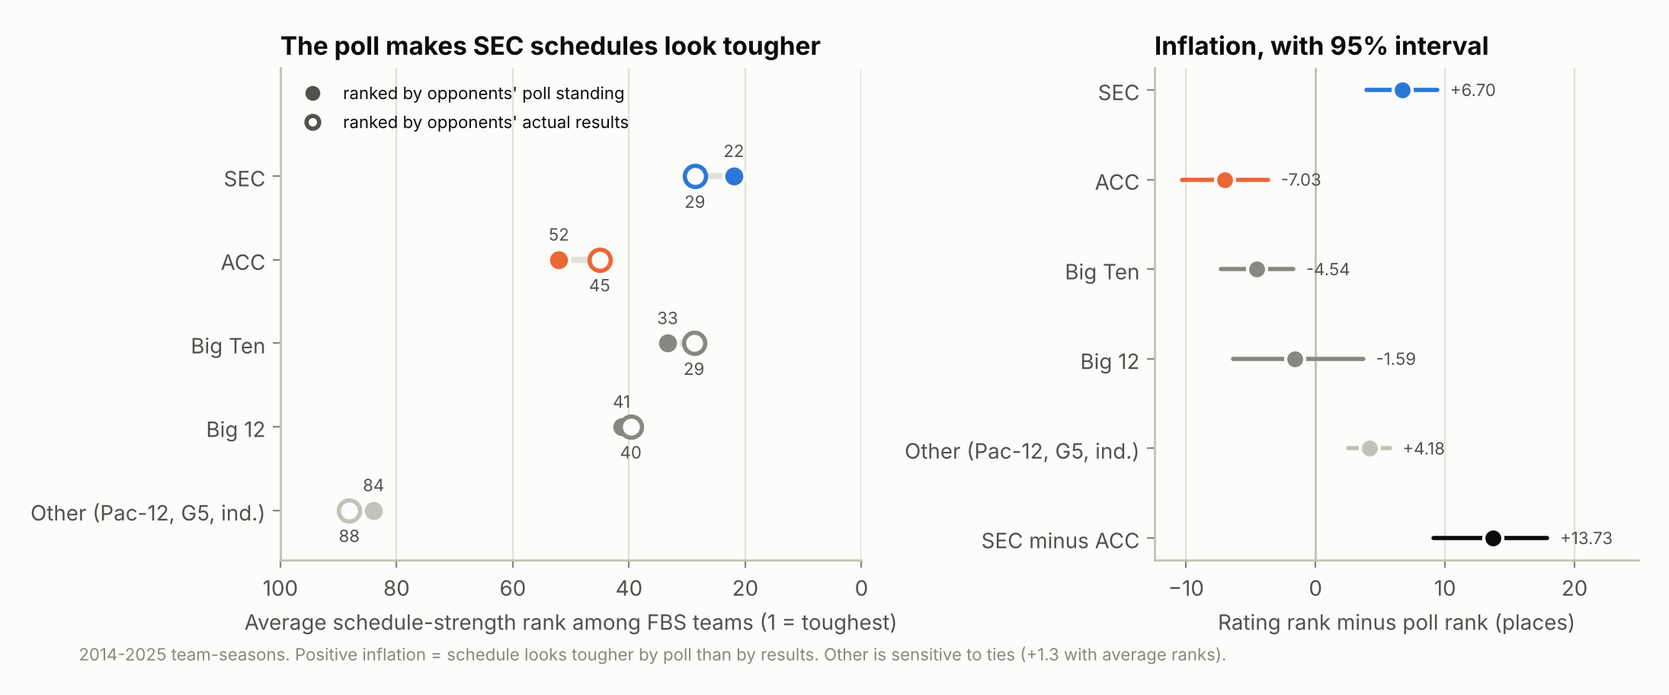
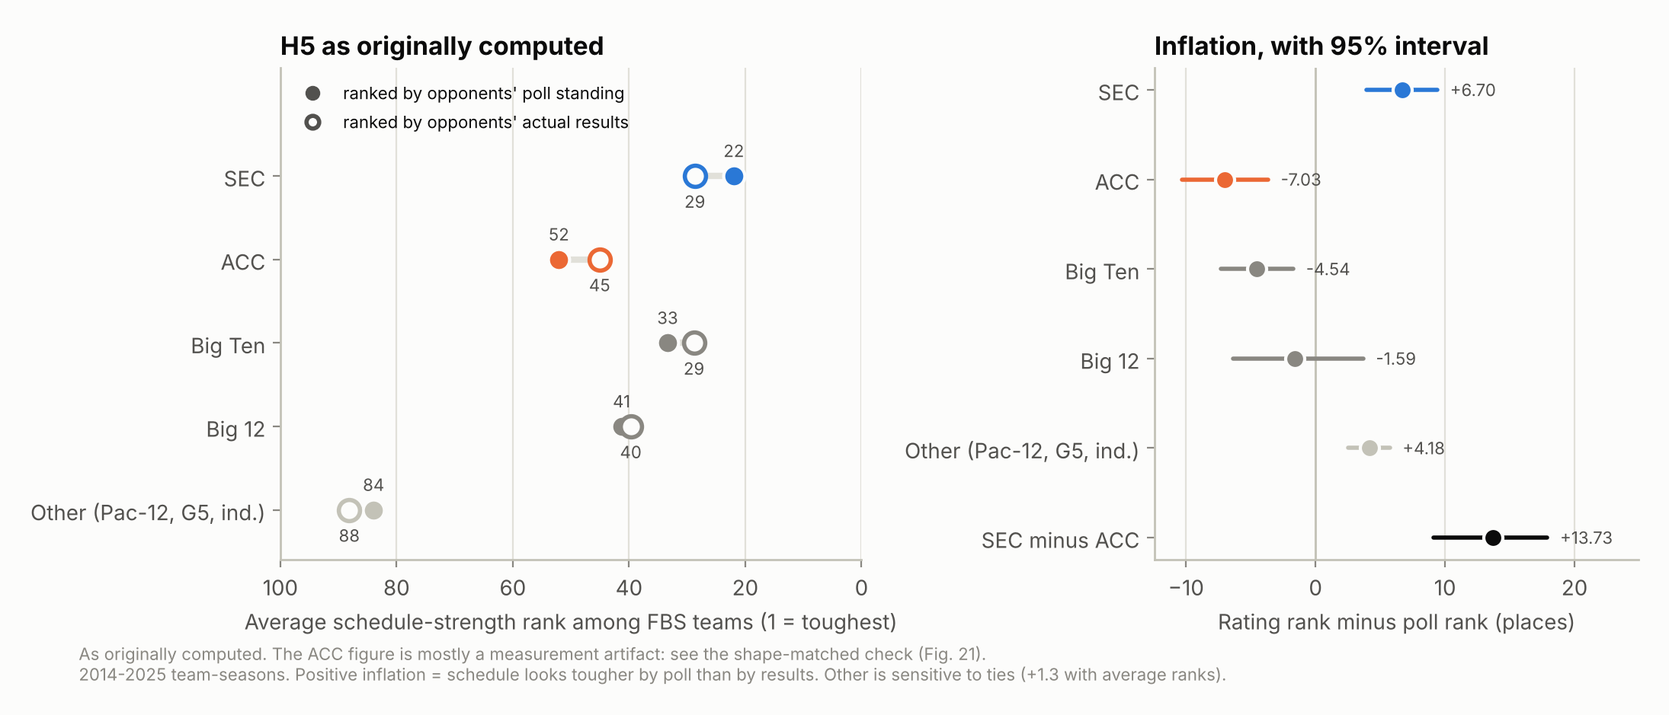
Rewrite headline findings after the H5 sensitivity check
- Byline and README now say: pre-registered plan with logged deviations;
  the main findings come from tests added during the analysis.
- 'About this study' disclosure added to README and REPORT.
- Abstract, 5.4, 7.1-7.3, 8 and 9 rewritten: the SEC game-day schedule
  effect survives the shape-matched check (+5.7, CI +2.9 to +8.9); the
  ACC effect and the SEC-minus-ACC schedule gap do not. Original H5
  numbers kept and labelled 'as originally computed'.
- Registered results stated plainly (H1, H2 vs Elo) with why Elo was
  replaced and when; every test labelled registered or added.
- H2 SEC-minus-ACC (+0.76, CI -0.43 to +1.93) stated wherever the
  one-place SEC overrating appears.
- Swap figure captions say 'Not evidence'; figure 15 relabelled.
- Data attribution and the new fetch-then-rebuild instructions.

Claude-Session: https://claude.ai/code/session_01GTeiMk8jWVQkHmZYpQRphq

diff --git a/src/figures.py b/src/figures.py
@@ -533,10 +533,11 @@ def fig_schedule_inflation():
     a1.invert_xaxis()
     a1.grid(axis="y", visible=False)
     a1.set_xlabel("Average schedule-strength rank among FBS teams (1 = toughest)")
-    a1.set_title("The poll makes SEC schedules look tougher")
+    a1.set_title("H5 as originally computed")
     rows = conf_rows(b) + [("SEC minus ACC", b["sec_minus_acc"], *b["sec_minus_acc_ci"], INK)]
     forest(a2, rows, "Inflation, with 95% interval", "Rating rank minus poll rank (places)")
     save(fig, "fig15_schedule_inflation.png",
+         "As originally computed. The ACC figure is mostly a measurement artifact: see the shape-matched check (Fig. 21).\n"
          "2014-2025 team-seasons. Positive inflation = schedule looks tougher by poll than by results. "
          "Other is sensitive to ties (+1.3 with average ranks).")
 

diff --git a/REPORT.md b/REPORT.md
@@ -1,7 +1,9 @@
 # Preseason Rank, Schedule Strength and the AP Poll: Does the SEC Benefit from Voter Bias?
 
 **Kyle Bowlsbey** · October 23, 2026
-Pre-registered study. Code, frozen data and every result: this repository. Analysis code written with Claude Code.
+Pre-registered plan with logged deviations. The main findings come from follow-up tests added during the analysis (§6). Code, data checksums and every result: this repository.
+
+**About this study.** Kyle is a Miami (ACC) fan, and the claim tested here is one he believed going in. The code and this report were written with Claude Code under his direction. Several analysis choices changed during the work after earlier results had been seen; each is dated in `DEVIATIONS.md` and listed in §6 with what had been seen at the time. An outside review of the first version found that the schedule result (H5) mixed a real effect with a measurement artifact; §5.4 reports the corrected analysis next to the original. Data provided by [CollegeFootballData.com](https://collegefootballdata.com) and [sportsdataverse/cfbfastR-data](https://github.com/sportsdataverse/cfbfastR-data).
 
 ---
 
@@ -9,16 +11,18 @@ Pre-registered study. Code, frozen data and every result: this repository. Analy
 
 We test the claim that the Southeastern Conference (SEC) appears stronger than it is because its teams start the season ranked, and that wins over ranked opponents then inflate the conference's standing. Using every regular-season AP Top 25 poll from 2014 to 2026 (2020 excluded) and every FBS game result, we (i) trained models that predict week-to-week AP poll movement from results alone, without team names or conferences; (ii) built a strength rating that uses only the current season's games; and (iii) tested conference-level differences against that rating, with 95% bootstrap intervals over team-seasons.
 
-The model passed its pre-registered out-of-sample test. For the 2024 and 2025 seasons, a full replay from the preseason poll reached a rank correlation of 0.80 and 0.92 with the real final regular-season poll; the bar was 0.70. Four findings follow.
+The model passed its pre-registered out-of-sample test. For the 2024 and 2025 seasons, a full replay from the preseason poll reached a rank correlation of 0.80 and 0.92 with the real final regular-season poll; the bar was 0.70.
 
-1. **Preseason standing persists for every conference.** About half of it (coefficient 0.48, 95% CI 0.42–0.54) is still visible after week five, holding record, scoring margin and strength fixed. The SEC does not carry over more than the ACC: difference +0.04, 95% CI −0.16 to +0.24.
-2. **For the same result against the same quality of opponent, voters do not reward SEC wins more or punish SEC losses less than ACC ones.**
-3. **The poll distorts schedule strength, and that is the clearest effect we found.** Ranked by opponents' poll standing, SEC schedules look 6.7 places tougher among about 130 FBS teams than they look ranked by opponents' actual results, and ACC schedules look 7.0 places easier. The SEC-minus-ACC gap is 13.7 places (95% CI 9.1–17.9).
-4. **SEC teams sit about one poll position above what their current-season results support** (+1.1, 95% CI +0.3 to +1.9). The ACC's +0.4 is not distinguishable from zero, and the Big 12 is similar to the SEC at +1.2.
+**The registered tests gave mixed signals.** H1 (linear model) found SEC teams gain slightly more than ACC teams for the same result, but that model fits worse than predicting no change. H2 against Elo found the poll rates ACC teams above Elo and SEC teams in line with it. After seeing those Elo results we replaced Elo with a season-only rating (deviation 10), because preseason Elo is 0.67 × last season's final Elo and so carries the very head start being tested. The findings below come mostly from follow-up tests added during the analysis.
+
+1. **Preseason standing persists for every conference** (H3, registered as defined in deviation 9). About half of it (coefficient 0.48, 95% CI 0.42–0.54) is still visible after week five, holding record, scoring margin and strength fixed. The SEC does not carry over more than the ACC: difference +0.04, 95% CI −0.16 to +0.24.
+2. **For the same result against the same quality of opponent, voters do not reward SEC wins more or punish SEC losses less than ACC ones** (H4, added).
+3. **SEC opponents are ranked higher on game day than their season results end up justifying** (H5 sensitivity, added). On a matched top-25 scale, SEC schedules look 5.7 places tougher among about 130 FBS teams by opponents' game-day poll rank than by opponents' final results (95% CI +2.9 to +8.9). The ACC shows no such effect (+2.1, CI −1.1 to +5.5), and the SEC-minus-ACC gap (+3.5, CI −0.8 to +8.0) is not statistically clear. As originally computed, H5 reported an ACC effect of −7.0 and a gap of 13.7 places; most of that came from scoring good-but-unranked opponents as zero on one side only.
+4. **SEC teams sit about one poll position above what their current-season results support** (+1.1, 95% CI +0.3 to +1.9; H2 against the season-only rating, added). The SEC-minus-ACC difference (+0.76, CI −0.43 to +1.93) is not distinguishable from zero, and the Big 12 is similar to the SEC at +1.2.
 
 A direct counterfactual, swapping SEC and ACC preseason positions in 2026, could not be answered reliably. Even our best model holds on to preseason rank more firmly than real voters do: it failed a plausibility check fixed in advance, which the real 2026 poll passes.
 
-In short, the SEC's poll advantage runs mainly through the reputation of its schedule, not through voters scoring its games differently. The ACC's own rankings are not depressed, but its schedules are systematically undersold.
+In short, the evidence supports one part of the claim: SEC opponents carry game-day rankings their results do not fully justify, and preseason standing persists for everyone. It does not support the stronger versions. Voters do not grade SEC games more generously, ACC schedules are not shown to be undersold, and the SEC-versus-ACC differences in schedule credit and in poll standing relative to results are not statistically clear.
 
 ---
 
@@ -77,7 +81,7 @@ Section 6 lists every deviation and, importantly, which results had been seen wh
 | Game results, venue, conference, Elo | [sportsdataverse/cfbfastR-data](https://github.com/sportsdataverse/cfbfastR-data), `schedules/parquet`, commit `09f2595e` | 2014–2026 | Elo used only as a comparison, never as a model input |
 | AP Top 25, weekly, with points and first-place votes | [CollegeFootballData.com](https://collegefootballdata.com) API, `/rankings` | 2014–2026 | Regular season and postseason |
 
-All 39 raw files were pulled once (2026-10-23 17:18 UTC), saved unmodified, and checksummed in `data/MANIFEST.json`. No file was re-pulled.
+All 39 raw files were pulled once (2026-10-23 17:18 UTC), saved unmodified, and checksummed in `data/MANIFEST.json`. They are not committed: CollegeFootballData.com's terms do not allow publishing stored raw API responses. `src/fetch_data.py` rebuilds them byte for byte from the sources and checks every checksum.
 
 ### 3.2 Scope and construction
 
@@ -143,14 +147,16 @@ The weights, the cap and the shrinkage were fixed before any rating was computed
 
 All on real 2014–2025 data. The 95% intervals come from 1,000 bootstrap resamples of whole team-seasons (seed 0).
 
-| Test | Question | Measure |
-| --- | --- | --- |
-| H1 Conference effect (registered) | Same result, more points for the SEC? | SEC − ACC coefficient in the linear model with conference flags |
-| H2 Poll vs strength (registered) | Is the SEC ranked above its strength? | Strength rank − AP rank, by conference (Elo, then the season-only rating, polls 6+) |
-| H3 Preseason carry-over | Does preseason standing persist at equal performance? | Coefficient on preseason points, controlling record, margin, strength and week; SEC/ACC interactions |
-| H4 Rewards and punishments | Are SEC wins rewarded more, losses punished less? | Out-of-season residuals of the name-blind rated model, ranked teams, after wins and after losses |
-| H5 Schedule inflation | Does the poll overstate SEC schedules? | Schedule rank by opponents' poll points vs by opponents' season-only rating |
-| H6 Elo head start | Does Elo carry an SEC advantage? | Season-only rank − Elo rank, by conference |
+| Test | Status | Question | Measure |
+| --- | --- | --- | --- |
+| H1 Conference effect | Registered | Same result, more points for the SEC? | SEC − ACC coefficient in the linear model with conference flags |
+| H2 Poll vs Elo | Registered | Is the SEC ranked above its strength? | Elo rank − AP rank, by conference |
+| H2 Poll vs season-only rating | Added (deviation 10) | Same question, current-season yardstick | Rating rank − AP rank, by conference, polls 6+ |
+| H3 Preseason carry-over | Registered (as defined in deviation 9) | Does preseason standing persist at equal performance? | Coefficient on preseason points, controlling record, margin, strength and week; SEC/ACC interactions |
+| H4 Rewards and punishments | Added (deviation 11) | Are SEC wins rewarded more, losses punished less? | Out-of-season residuals of the name-blind rated model, ranked teams, after wins and after losses |
+| H5 Schedule inflation | Added (deviation 11) | Does the poll overstate SEC schedules? | Schedule rank by opponents' poll points vs by opponents' season-only rating |
+| H5 sensitivity | Added (deviation 12, after outside review) | Is H5 a real effect or a measurement artifact? | H5 with shape and timing of the two measures matched (§5.4) |
+| H6 Elo head start | Added (deviation 11) | Does Elo carry an SEC advantage? | Season-only rank − Elo rank, by conference |
 
 ### 4.6 Counterfactual
 
@@ -241,15 +247,15 @@ The rating matches Elo and the AP poll while using no prior-season information. 
 
 ### 5.4 Hypothesis tests
 
-**H1 — Conference effect, same result.** In the linear model, SEC teams gain 0.12 points per voter more than ACC teams for an identical result (95% CI 0.0001 to 0.24). The registered specification gives +7.3 AP points (CI 0.6–14.8). The SEC, Big Ten and Big 12 coefficients are nearly equal; the ACC's is lower. This rests on the linear model, which fits poorly (§5.1), and H4, using the far better model, does not reproduce it.
+**H1 — Conference effect, same result (registered).** In the linear model, SEC teams gain 0.12 points per voter more than ACC teams for an identical result (95% CI 0.0001 to 0.24). The registered specification gives +7.3 AP points (CI 0.6–14.8). The SEC, Big Ten and Big 12 coefficients are nearly equal; the ACC's is lower. This rests on the linear model, which fits poorly (§5.1), and H4, using the far better model, does not reproduce it.
 
 ![Figure 10. H1: conference coefficients in the linear model, relative to other conferences.](results/figures/fig13_conference_effect.png)
 
 *Figure 10. H1: conference coefficients in the linear model, relative to other conferences.*
 
-**H2 — Poll rank versus strength rank** (positive = the poll ranks a team above its strength):
+**H2 — Poll rank versus strength rank** (positive = the poll ranks a team above its strength). The Elo column is registered; the season-only column was added after the Elo results were seen (deviation 10):
 
-| Conference | vs Elo, all polls | vs season-only rating, polls 6+ | AP-ranked but outside rating top 25 | In rating top 25 but AP-unranked |
+| Conference | vs Elo, all polls (registered) | vs season-only rating, polls 6+ (added) | AP-ranked but outside rating top 25 | In rating top 25 but AP-unranked |
 | --- | --- | --- | --- | --- |
 | **SEC** | +0.20 (−0.79, +1.27) | **+1.11 (+0.34, +1.88)** | 77 | 38 |
 | **ACC** | **+1.38 (+0.06, +2.56)** | +0.35 (−0.53, +1.16) | 60 | 50 |
@@ -258,7 +264,7 @@ The rating matches Elo and the AP poll while using no prior-season information. 
 | Other | +0.02 (−1.00, +1.11) | **−0.92 (−1.78, −0.12)** | 138 | 194 |
 | **SEC − ACC** | −1.18 (−2.72, +0.57) | +0.76 (−0.43, +1.93) | | |
 
-Counts are team-weeks. The two yardsticks disagree, and the disagreement is informative (see H6). Against current-season results, the SEC is ranked about one position too high, clearly different from zero. The ACC is not distinguishable from zero. The SEC-minus-ACC difference is positive but its interval includes zero.
+Counts are team-weeks. The two yardsticks disagree, and the disagreement is informative (see H6). Against current-season results, the SEC is ranked about one position too high, clearly different from zero. The ACC is not distinguishable from zero. The SEC-minus-ACC difference is +0.76 (CI −0.43 to +1.93), not distinguishable from zero, and the Big 12 (+1.15) is similar to the SEC.
 
 ![Figure 11. H2: poll rank minus strength rank by conference, against Elo (left) and against the season-only rating (right), with 95% intervals.](results/figures/fig10_poll_vs_strength.png)
 
@@ -268,13 +274,13 @@ Counts are team-weeks. The two yardsticks disagree, and the disagreement is info
 
 *Figure 12. H2: team-weeks ranked by the AP but outside the season-only top 25 (right), and the reverse (left).*
 
-**H3 — Preseason carry-over.** Holding record, margin, strength and week fixed, a team's points per voter in polls 6 and later rise by 0.48 for each point per voter it held in the preseason poll (CI 0.42–0.54; with Elo as the control, 0.52, CI 0.45–0.58). Extra carry-over for the SEC relative to the ACC is +0.04 (CI −0.16 to +0.24). Preseason standing is sticky, equally so for both conferences.
+**H3 — Preseason carry-over (registered, as defined in deviation 9).** Holding record, margin, strength and week fixed, a team's points per voter in polls 6 and later rise by 0.48 for each point per voter it held in the preseason poll (CI 0.42–0.54; with Elo as the control, 0.52, CI 0.45–0.58). Extra carry-over for the SEC relative to the ACC is +0.04 (CI −0.16 to +0.24). Preseason standing is sticky, equally so for both conferences.
 
 ![Figure 13. H3: preseason carry-over at equal record, margin, strength and week (left), and the SEC-minus-ACC difference (right).](results/figures/fig12_preseason_carryover.png)
 
 *Figure 13. H3: preseason carry-over at equal record, margin, strength and week (left), and the SEC-minus-ACC difference (right).*
 
-**H4 — Rewards and punishments.** Residuals of the name-blind rated model for ranked teams, in points per voter (positive = rose more, or fell less, than results explain):
+**H4 — Rewards and punishments (added).** Residuals of the name-blind rated model for ranked teams, in points per voter (positive = rose more, or fell less, than results explain):
 
 | Conference | After a win | After a loss | All weeks |
 | --- | --- | --- | --- |
@@ -291,7 +297,7 @@ Once opponent quality is measured by results rather than by poll standing, voter
 
 *Figure 14. H4: how far ranked teams beat the name-blind model after wins (left) and losses (right), by conference.*
 
-**H5 — Schedule inflation.** Each team-season's schedule is ranked among FBS teams (1 = toughest) by opponents' poll points and by opponents' season-only rating:
+**H5 — Schedule inflation (added), as originally computed.** Each team-season's schedule is ranked among FBS teams (1 = toughest) by opponents' poll points before each game and by opponents' final season-only rating:
 
 | Conference | Mean rank by poll | Mean rank by results | Inflation (rating rank − poll rank) |
 | --- | --- | --- | --- |
@@ -304,13 +310,33 @@ Once opponent quality is measured by results rather than by poll standing, voter
 
 \*The Other figure is sensitive to ties at zero (teams that faced no ranked opponent); with average ranks it is +1.3. The SEC (+6.7) and ACC (−7.2) figures are not sensitive to this.
 
-This is the largest and most precisely estimated effect in the study. The poll makes SEC schedules look about seven places tougher, and ACC schedules about seven places easier, than opponents' actual results justify. In 2026 to date the direction is the same but the estimate is imprecise: SEC +2.7 (−3.2, +9.3), ACC −4.9 (−14.9, +4.0), SEC − ACC +7.6 (−3.6, +19.7).
+The first version of this report called this the clearest effect in the study. An outside review showed that it compares two measures that differ in two ways at once. **Shape:** the poll side scores every unranked opponent as zero, while the rating side gives every opponent credit. **Timing:** the poll side uses each opponent's standing on game day, the rating side its final rating. The timing gap is the effect under test; the shape gap is a measurement artifact. In 2026 to date the original measure gives SEC +2.7 (−3.2, +9.3), ACC −4.9 (−14.9, +4.0), SEC − ACC +7.6 (−3.6, +19.7).
 
 ![Figure 15. H5: average schedule rank by opponents' poll standing (filled) and by their actual results (open), left; inflation with 95% intervals, right.](results/figures/fig15_schedule_inflation.png)
 
-*Figure 15. H5: average schedule rank by opponents' poll standing (filled) and by their actual results (open), left; inflation with 95% intervals, right.*
+*Figure 15. H5 as originally computed: average schedule rank by opponents' poll standing (filled) and by their actual results (open), left; inflation with 95% intervals, right. The ACC figure is mostly a measurement artifact (Figure 21).*
 
-**H6 — Elo's head start.** Relative to the season-only rating (polls 6+), Elo ranks SEC teams 0.91 places higher (−0.48, +2.18) and ACC teams 1.07 places lower (−2.55, +0.48). The SEC − ACC difference is **+1.98 (+0.03, +3.86)**. Elo carries roughly two positions more prior-season advantage for the SEC than for the ACC. That explains why the Elo-based version of H2 showed no SEC overrating: Elo shares part of the head start the test was looking for.
+**H5 sensitivity (added after an outside review; deviation 12).** The same comparison four ways (average ranks for ties; rank places; 95% intervals):
+
+| Variant | Poll side | Rating side | SEC | ACC | SEC − ACC |
+| --- | --- | --- | --- | --- | --- |
+| A. As originally computed | Points per voter, game day | Final rating | +6.7 (+3.9, +9.4) | −7.2 (−10.6, −3.9) | +14.0 (+9.3, +18.2) |
+| **B. Shape matched** | **Top-25 rank points, game day** | **Final top-25 rank points** | **+5.7 (+2.9, +8.9)** | **+2.1 (−1.1, +5.5)** | **+3.5 (−0.8, +8.0)** |
+| C. Timing matched | Points per voter, final poll | Final rating | +1.9 (−1.5, +5.1) | −9.4 (−13.0, −6.0) | +11.4 (+6.6, +16.3) |
+| D. Shape and timing matched | Top-25 rank points, final poll | Final top-25 rank points | +1.1 (−0.4, +2.4) | +0.5 (−1.1, +2.3) | +0.6 (−1.7, +2.7) |
+
+Variant B is the fairest test of the claim: the same scale on both sides, game-day poll against final results. Under B:
+- **The SEC effect survives.** SEC opponents are ranked about 5.7 places higher on game day than their final results justify, with an interval clear of zero. That is the preseason-rank mechanism the study set out to test.
+- **The ACC effect disappears** (+2.1, interval includes zero). The original −7 came from ACC opponents that are often decent teams just outside the top 25: zero on the poll side, credit on the rating side.
+- **The SEC-minus-ACC gap is not statistically clear** (+3.5, interval −0.8 to +8.0).
+
+Variant D removes the game-day effect by design, so it is expected to show nothing; it is reported for completeness. The final regular-season poll is the poll after each season's last schedule week. The outside review used the poll one week earlier; with that choice C and D come out at SEC +1.2 and +0.2, ACC −9.7 and +0.1, and A and B are unchanged (`results/h5_sensitivity.json` holds both).
+
+![Figure 21. H5 sensitivity: schedule inflation for the SEC, the ACC and SEC minus ACC under four ways of matching the two measures.](results/figures/fig21_h5_sensitivity.png)
+
+*Figure 21. H5 sensitivity: schedule inflation for the SEC, the ACC and SEC minus ACC under four ways of matching the two measures. B is the fairest test.*
+
+**H6 — Elo's head start (added).** Relative to the season-only rating (polls 6+), Elo ranks SEC teams 0.91 places higher (−0.48, +2.18) and ACC teams 1.07 places lower (−2.55, +0.48). The SEC − ACC difference is **+1.98 (+0.03, +3.86)**. Elo carries roughly two positions more prior-season advantage for the SEC than for the ACC. That explains why the Elo-based version of H2 showed no SEC overrating: Elo shares part of the head start the test was looking for.
 
 ![Figure 16. H6: places Elo ranks teams above the season-only rating, by conference.](results/figures/fig16_elo_head_start.png)
 
@@ -357,11 +383,11 @@ These swap results reflect the model's attachment to starting position more than
 
 ![Figure 18. 2026 top-25 slots by conference at poll 8: the real poll and the rated model's runs.](results/figures/fig18_counterfactual_slots.png)
 
-*Figure 18. 2026 top-25 slots by conference at poll 8: the real poll and the rated model's runs.*
+*Figure 18. 2026 top-25 slots by conference at poll 8: the real poll and the rated model's runs. Not evidence: every run, including the no-swap run, fails the plausibility check.*
 
 ![Figure 19. Nine-slot swap, rated model: each paired team's simulated rank without and with the swap.](results/figures/fig19_counterfactual_teams.png)
 
-*Figure 19. Nine-slot swap, rated model: each paired team's simulated rank without and with the swap.*
+*Figure 19. Nine-slot swap, rated model: each paired team's simulated rank without and with the swap. Not evidence: every run, including the no-swap run, fails the plausibility check.*
 
 ![Figure 20. 2026 to date: AP rank in poll 8 against the season-only rating after week 7.](results/figures/fig20_2026_poll_vs_rating.png)
 
@@ -390,8 +416,10 @@ Every entry is dated in `DEVIATIONS.md` and was committed before use. The last c
 | 9 | Hypothesis test definitions, including H3 | Methodology left details open | Base rates |
 | 10 | Season-only rating replaces Elo as the primary yardstick; Elo kept for comparison | Elo carries 67% of the prior season | Elo-based hypothesis results |
 | 11 | Rated model; H4–H6; swap re-run with a pre-set plausibility check | Opponent strength measured by poll standing alone carries the effect under test | Season-rating results |
+| 12 | H5 sensitivity: shape and timing matched | Outside review found H5 mixed a real effect with a measurement artifact | All results, including the published report |
+| 13 | Raw data no longer committed; fetched and checksum-verified | CollegeFootballData.com terms do not allow publishing stored raw API responses | All results (no number changes) |
 
-Deviations 5, 6, 8, 10 and 11 were made after some results were known. None changed how the holdout was scored. Results under the original specifications are reported alongside wherever they exist, and the original Elo-based results remain in `results/hypothesis.json`.
+Deviations 5, 6, 8, 10, 11 and 12 were made after some results were known. None changed how the holdout was scored. Results under the original specifications are reported alongside wherever they exist, and the original Elo-based results remain in `results/hypothesis.json`.
 
 ---
 
@@ -405,7 +433,7 @@ Deviations 5, 6, 8, 10 and 11 were made after some results were known. None chan
 | SEC poll standing above independent strength | Above the season-only rating (+1.1, CI excludes zero); not above Elo, which shares the head start (H6) | Supported, with caveats |
 | SEC poll standing matches strength (refutation) | Matches Elo; does not match current-season results | Not met |
 
-By the letter of the pre-registration, the claim is neither confirmed (the swap evidence is unusable) nor refuted (the SEC is ranked above its current-season strength).
+By the letter of the pre-registration, the claim is neither confirmed (the swap evidence is unusable) nor refuted (the SEC is ranked above its current-season strength). The registered tests on their own point slightly against it. H1 favors the SEC only in a model that fits worse than predicting no change, and H2 against Elo shows the poll rating ACC teams above Elo and SEC teams in line with it. The season-only yardstick that shows SEC overrating replaced Elo after those results were seen (deviation 10), because preseason Elo is 0.67 × last season's final Elo and so carries the head start being tested.
 
 ### 7.2 What the evidence shows
 
@@ -413,13 +441,13 @@ The study distinguishes three mechanisms by which the SEC could benefit:
 
 1. **Voters score SEC games more generously.** Not supported. For the same result against the same quality of opponent, SEC and ACC teams move alike (H4). The H1 result pointing the other way comes from a model that fits worse than predicting no change.
 2. **Preseason standing persists, and the SEC starts with more of it.** Supported, but the effect is general. About half of preseason standing persists into mid-season at equal performance, for every conference alike (H3). The SEC benefits because it begins with more ranked teams, not because its rankings are stickier.
-3. **The poll inflates the perceived strength of SEC schedules.** Strongly supported. SEC opponents are ranked well above what their results justify, so SEC schedules look about seven places tougher than they are, while ACC schedules look about seven places easier (H5). This is the mechanism in the original claim, and it is the clearest and most precisely measured effect in the study.
+3. **The poll inflates the perceived strength of SEC schedules.** Supported for the SEC, not as an SEC-versus-ACC difference. On a matched scale, SEC opponents are ranked about 5.7 places higher on game day than their final results justify (H5 sensitivity, variant B). That is the mechanism in the original claim. The ACC shows no comparable effect, but the SEC-minus-ACC gap (+3.5 places) is not statistically clear. The original H5 figures (+6.7 SEC, −7.0 ACC, gap 13.7) overstated the contrast through a measurement artifact.
 
-The net result is that SEC teams sit about one position above what their current-season results support (H2). The Big 12 shows a similar overrating, and Group of 5 teams are underrated by about the same amount, so this is not unique to the SEC.
+The net result is that SEC teams sit about one position above what their current-season results support (H2). The SEC-minus-ACC difference (+0.76) is not distinguishable from zero. The Big 12 shows a similar overrating, and Group of 5 teams are underrated by about the same amount, so this is not unique to the SEC.
 
 ### 7.3 On the ACC
 
-The ACC's own teams are not ranked below their current-season strength (H2: +0.35, not distinguishable from zero), and voters do not punish ACC results more (H4). The ACC's disadvantage is indirect: its opponents are ranked below their results, so ACC teams receive less credit for whom they played. Whether ACC teams with SEC-like preseason positions would be ranked as highly could not be answered reliably (§5.6).
+The ACC's own teams are not ranked below their current-season strength (H2: +0.35, not distinguishable from zero), and voters do not punish ACC results more (H4). The first version of this report also said ACC schedules are undersold. That does not survive the shape-matched check: ACC schedule inflation is +2.1 (CI −1.1 to +5.5). The apparent undercount came from ACC opponents just outside the top 25, which the poll side scored as zero. Whether ACC teams with SEC-like preseason positions would be ranked as highly could not be answered reliably (§5.6).
 
 ### 7.4 On Elo
 
@@ -435,15 +463,16 @@ Elo is independent of voters but not of the previous season. Its season-to-seaso
 4. **The counterfactual is not credible.** Even the best model is stickier than real voters, and every swap run fails a plausibility check that the real poll passes. The counterfactual also assumes games would end with the same scores regardless of rankings.
 5. **The holdout was used once for the registered and revised models.** The rated model was defined afterwards, and its 2024–2025 numbers are labelled as a re-used holdout.
 6. **Several analyses were added after earlier results were seen** (§6). Each was logged before it was run, and its timing is disclosed. Readers should weigh these as less confirmatory than the pre-registered tests.
-7. **Multiple comparisons.** Five conference groups, several situations and two unranked rules produce many intervals; a few are expected to exclude zero by chance. The headline results (H3 and H5) have intervals well clear of zero.
+7. **Multiple comparisons.** Five conference groups, several situations and two unranked rules produce many intervals; a few are expected to exclude zero by chance. H3 and the SEC schedule effect under the matched H5 check have intervals clear of zero. Of the SEC-versus-ACC contrasts, only H1 (in a model that fits poorly) and H6 (Elo's head start) exclude zero, both barely; none of those that measure how voters treat the two conferences does.
 8. **Observational design.** Preseason rank is not randomly assigned. Controls for record, margin and strength reduce but cannot remove confounding.
 9. **Single source per data type.** Results depend on the accuracy of the CFBD poll data and the cfbfastR-data schedules.
+10. **Measurement choices matter.** The original H5 result changed substantially once the two schedule measures were put on the same scale. Other comparisons between a top-25 poll and a continuous rating (H2, H6) use ranks capped at 26 on both sides, which limits but may not remove the same problem.
 
 ---
 
 ## 9. Conclusion
 
-The SEC does benefit in the AP poll, but not in the way the claim most often implies. Voters do not grade SEC games more generously. Instead, preseason standing persists for every team, the SEC starts with the most of it, and the resulting rankings make SEC schedules look markedly tougher than opponents' results support. That inflated schedule strength is the clearest effect we found: about seven places for the SEC and about seven places in the opposite direction for the ACC. Its net effect is that SEC teams are ranked about one position above their current-season results, a margin shared with the Big 12. Whether ACC teams would rise to SEC-like rankings given SEC-like starting positions cannot be determined with these models, and we do not claim it.
+The SEC benefits in the AP poll in a narrower way than the claim implies. Voters do not grade SEC games more generously. Preseason standing persists for every team, the SEC starts with the most of it, and SEC opponents carry game-day rankings about six places higher than their final results justify. SEC teams end up about one position above their current-season results, a margin shared with the Big 12. What the data do not show is a clear SEC-versus-ACC difference: neither in schedule credit once the two measures are matched, nor in poll standing relative to results. The first version of this report claimed ACC schedules are undersold; that was a measurement artifact and is withdrawn. Whether ACC teams would rise to SEC-like rankings given SEC-like starting positions cannot be determined with these models, and we do not claim it.
 
 ---
 
@@ -460,7 +489,7 @@ python run_all.py
 
 | Result | File | Script |
 | --- | --- | --- |
-| Data checksums | `data/MANIFEST.json` | `src/pull_data.py`, `src/verify_data.py` |
+| Data checksums; raw data download | `data/MANIFEST.json` | `src/pull_data.py` (original pull), `src/fetch_data.py` (rebuild), `src/verify_data.py` |
 | Training metrics, model specs | `results/train_metrics.json`, `results/model_spec.json` | `src/train.py` |
 | Training-season replay | `results/replay_training.json` | `src/replay.py` |
 | Holdout (once) | `results/holdout.json` | `src/score_holdout.py` |
@@ -468,7 +497,8 @@ python run_all.py
 | Season-only rating validation | `results/season_rating_validation.json` | `src/season_rating.py` |
 | H1–H3 | `results/hypothesis.json` | `src/hypothesis.py` |
 | H4–H6 | `results/bias_tests.json`, `results/schedule_strength_2026.csv` | `src/bias_tests.py` |
+| H5 sensitivity | `results/h5_sensitivity.json` | `src/h5_sensitivity.py` |
 | Real-voter base rates | `results/base_rates_poll8.json` | `src/base_rates.py` |
 | Counterfactual | `results/counterfactual_2026.json`, `results/counterfactual_2026_rated.json` | `src/counterfactual.py` |
 | Exploratory team residuals | `results/team_bias_*.csv`, `results/conference_bias_*.csv` | `src/team_bias.py` |
-| Figures 1–20 | `results/figures/*.png` | `src/figures.py` |
+| Figures 1–21 | `results/figures/*.png` | `src/figures.py` |

diff --git a/README.md b/README.md
@@ -1,9 +1,16 @@
 # Does Starting Ranked Explain SEC Strength?
 
-A pre-registered study of week-to-week AP poll movement, testing whether SEC teams look tougher mainly because they start the season ranked.
+A study of week-to-week AP poll movement, testing whether SEC teams look tougher mainly because they start the season ranked. Pre-registered plan with logged deviations; the main findings come from follow-up tests added during the analysis.
 
 - **Plan:** [`METHODOLOGY.md`](METHODOLOGY.md), committed before any data was pulled.
-- **Changes to the plan:** [`DEVIATIONS.md`](DEVIATIONS.md), each dated and committed before use.
+- **Changes to the plan:** [`DEVIATIONS.md`](DEVIATIONS.md), each dated and committed before use, with what had been seen at the time.
+
+## About this study
+
+- Kyle Bowlsbey is a Miami (ACC) fan, and the claim tested here is one he believed going in.
+- The code and report were written with Claude Code under his direction.
+- Several analysis choices changed during the work after earlier results had been seen. Each is logged in `DEVIATIONS.md` and listed in the report (§6).
+- An outside review of the first version found that the schedule result (H5) mixed a real effect with a measurement artifact. The findings below reflect the corrected analysis; the original numbers are kept in the report.
 
 ## Status
 
@@ -19,27 +26,32 @@ A pre-registered study of week-to-week AP poll movement, testing whether SEC tea
 | Holdout (2024–2025) scored once (`results/holdout.json`) | Done: primary model passes |
 | Hypothesis tests (`results/hypothesis.json`, `results/bias_tests.json`) | Done |
 | Season-only strength rating (`results/season_rating_validation.json`) | Done |
-| Report (`REPORT.md`) | Done |
+| H5 sensitivity after outside review (`results/h5_sensitivity.json`) | Done |
+| Report (`REPORT.md`) | Done; revised after outside review |
 | 2026 counterfactual (`results/counterfactual_2026*.json`) | Run; every model fails a plausibility check (`results/base_rates_poll8.json`) |
 
 ## Findings
 
-The full write-up, with 20 figures covering every step from data to counterfactual, is in [`REPORT.md`](REPORT.md). Figures are in [`results/figures/`](results/figures/). In brief, on 2014–2025 AP polls:
+The full write-up, with 21 figures covering every step from data to counterfactual, is in [`REPORT.md`](REPORT.md). Figures are in [`results/figures/`](results/figures/). In brief, on 2014–2025 AP polls. Registered tests are marked as such; the rest were added during the analysis.
 
-1. **Preseason standing persists for everyone.** About half of a team's preseason standing still shows up after week five at the same record, margin and strength. It persists no more for the SEC than for the ACC.
-2. **Voters do not score SEC games more generously.** For the same result against the same quality of opponent, SEC and ACC teams move alike after wins and after losses.
-3. **The poll inflates SEC schedule strength.** By opponents' poll standing, SEC schedules look about 7 places tougher (of ~130) than opponents' results justify, and ACC schedules about 7 places easier. The SEC-minus-ACC gap is 13.7 places (95% CI 9.1–17.9).
-4. **Net effect:** SEC teams rank about one place above their current-season results (95% CI +0.3 to +1.9), similar to the Big 12. The ACC is not distinguishable from zero.
-5. **The SEC/ACC preseason swap could not be answered reliably.** Every model is stickier than real voters and fails a plausibility check that the real 2026 poll passes.
+1. **Preseason standing persists for everyone** (registered, as defined in deviation 9). About half of a team's preseason standing still shows up after week five at the same record, margin and strength. It persists no more for the SEC than for the ACC.
+2. **Voters do not score SEC games more generously** (added). For the same result against the same quality of opponent, SEC and ACC teams move alike after wins and after losses.
+3. **SEC opponents are ranked higher on game day than their season results justify** (added). On a matched top-25 scale, SEC schedules look about 6 places tougher (of ~130) by opponents' game-day rank than by their final results (95% CI +2.9 to +8.9). The ACC shows no such effect, and the SEC-minus-ACC gap (+3.5, 95% CI −0.8 to +8.0) is not statistically clear. The first version reported a 13.7-place gap and undersold ACC schedules; most of that was a measurement artifact.
+4. **Net effect:** SEC teams rank about one place above their current-season results (95% CI +0.3 to +1.9; added), similar to the Big 12. The ACC is not distinguishable from zero, and neither is the SEC-minus-ACC difference (+0.76, 95% CI −0.43 to +1.93).
+5. **The registered tests on their own point slightly the other way.** The linear conference test (H1) favors the SEC only in a model that fits worse than predicting no change, and against Elo (H2) the poll rates ACC teams above Elo and SEC teams in line with it. The season-only yardstick replaced Elo after those results were seen, because preseason Elo carries two-thirds of last season.
+6. **The SEC/ACC preseason swap could not be answered reliably.** Every model is stickier than real voters and fails a plausibility check that the real 2026 poll passes.
 
 ## Reproduce
 
 ```bash
 pip install -r requirements.txt
-python run_all.py          # rebuilds everything from the frozen files in data/raw
+export CFBD_API_KEY=...    # free key: https://collegefootballdata.com/key
+python run_all.py          # downloads and verifies the raw data, then rebuilds everything
 ```
 
-`src/pull_data.py` is the only script that touches the network. It needs a free [CollegeFootballData.com](https://collegefootballdata.com) key in `CFBD_API_KEY`.
+Raw data is not committed: CollegeFootballData.com's terms do not allow publishing stored raw API responses. `src/fetch_data.py` (the first step of `run_all.py`) downloads every raw file, schedules from the pinned cfbfastR-data commit and polls from the CFBD API, and fails unless each matches the checksum in `data/MANIFEST.json`. Once the files are present, the rest of the run is offline.
+
+Data provided by [CollegeFootballData.com](https://collegefootballdata.com) and [sportsdataverse/cfbfastR-data](https://github.com/sportsdataverse/cfbfastR-data).
 
 ## Exploratory: team bias finder
 
